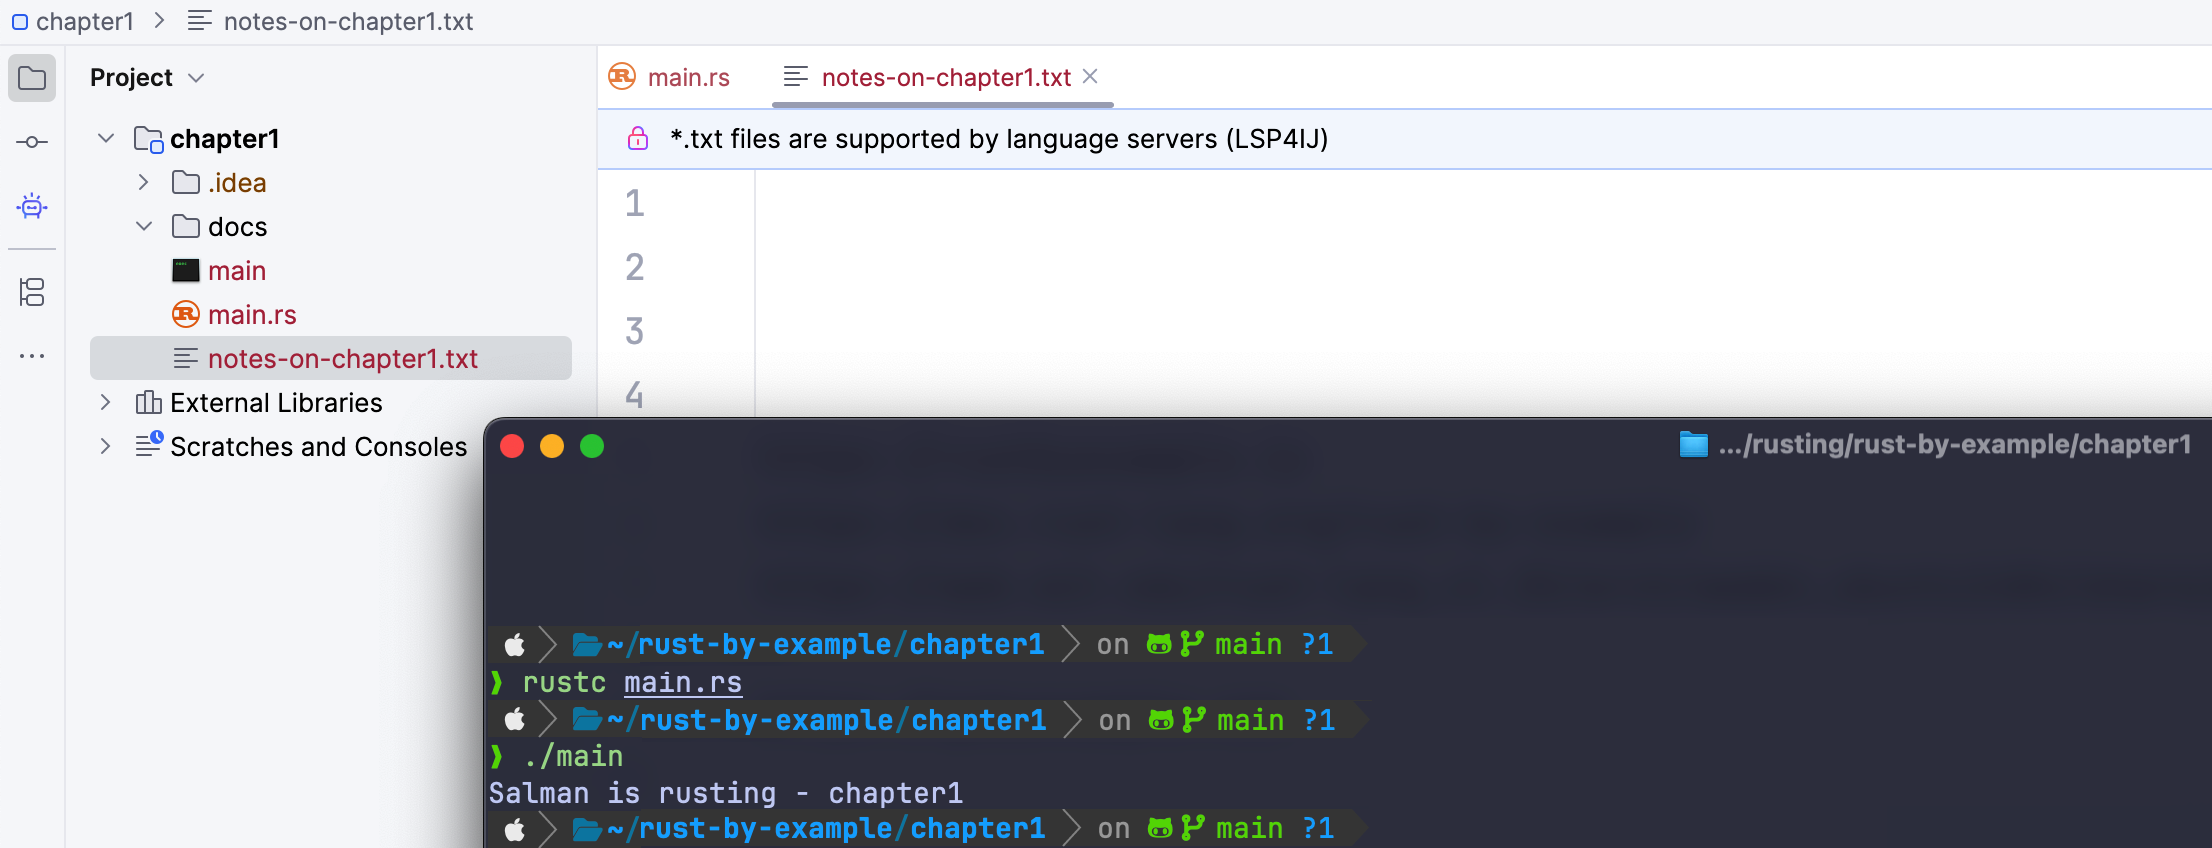
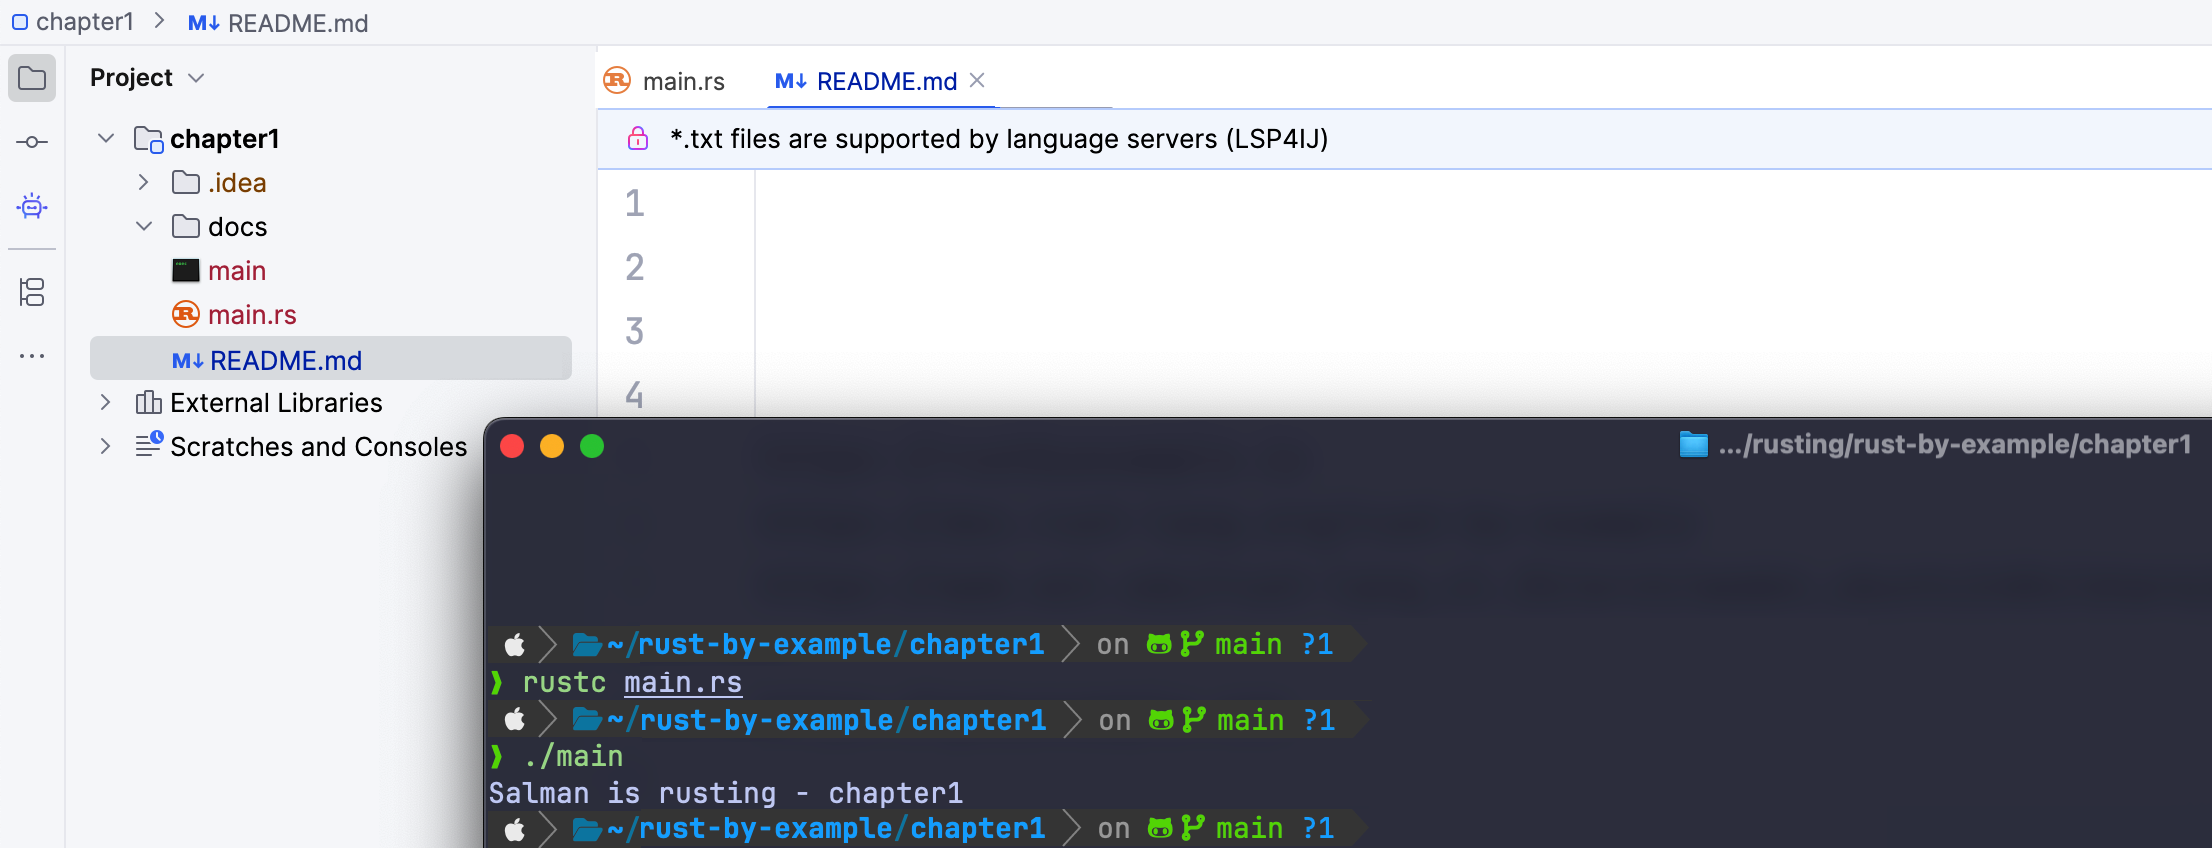
rust chapter1 documented

Changed region(s): [[0.2495, 0.0613, 0.4991, 0.1533], [0.0624, 0.3986, 0.2184, 0.4599], [0.0624, 0.0, 0.2184, 0.0613]]

diff --git a/chapter1/README.md b/chapter1/README.md
@@ -1,0 +1,51 @@
+
+# Learning Source
+* The Rust Reference - https://doc.rust-lang.org/reference
+* Official Rust by Example - https://doc.rust-lang.org/stable/rust-by-example/
+* MIT Rust by Example - https://web.mit.edu/rust-lang_v1.25/arch/amd64_ubuntu1404/share/doc/rust/html/rust-by-example/index.html
+* Other Rust by Example - https://rustbyexample.io
+
+#### Check Rust and Cargo install properly or Not
+```
+❯ rustc --version
+rustc 1.79.0 (129f3b996 2024-06-10)
+
+❯ whereis rustc  
+rustc: /Users/userName/.cargo/bin/rustc
+
+❯ cargo --version
+cargo 1.79.0 (ffa9cf99a 2024-06-03)
+
+```
+#### After clone Run the chapter1 codes
+```
+git clone https://github.com/javagrails/rust-by-example
+
+cd rust-by-example/chapter1
+❯ rustc main.rs
+❯ ./main
+```
+It will print
+```
+Salman is rusting - chapter1
+```
+in terminal
+
+Same if you run
+```
+./rrun main.rs
+```
+console output will be
+```
+▶ Running: rustc main.rs
+
+📄 Listing generated files:
+-rwxr-xr-x  406K  main
+-rw-r--r--  60B   main.rs
+
+▶ Running binary: ./main
+Salman is rusting - chapter1
+```
+#### Some Docs
+![Image 1](docs/01.png)
+![Image 2](docs/02.png)
